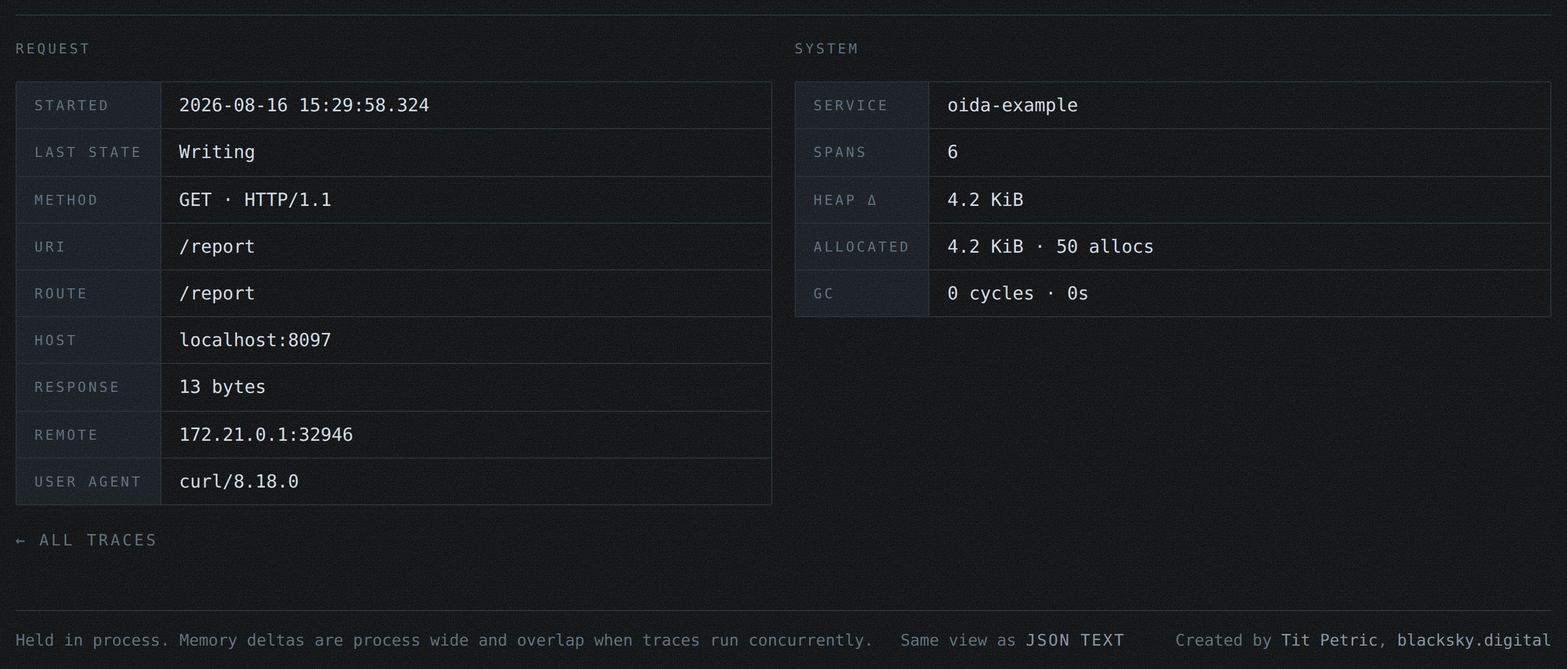
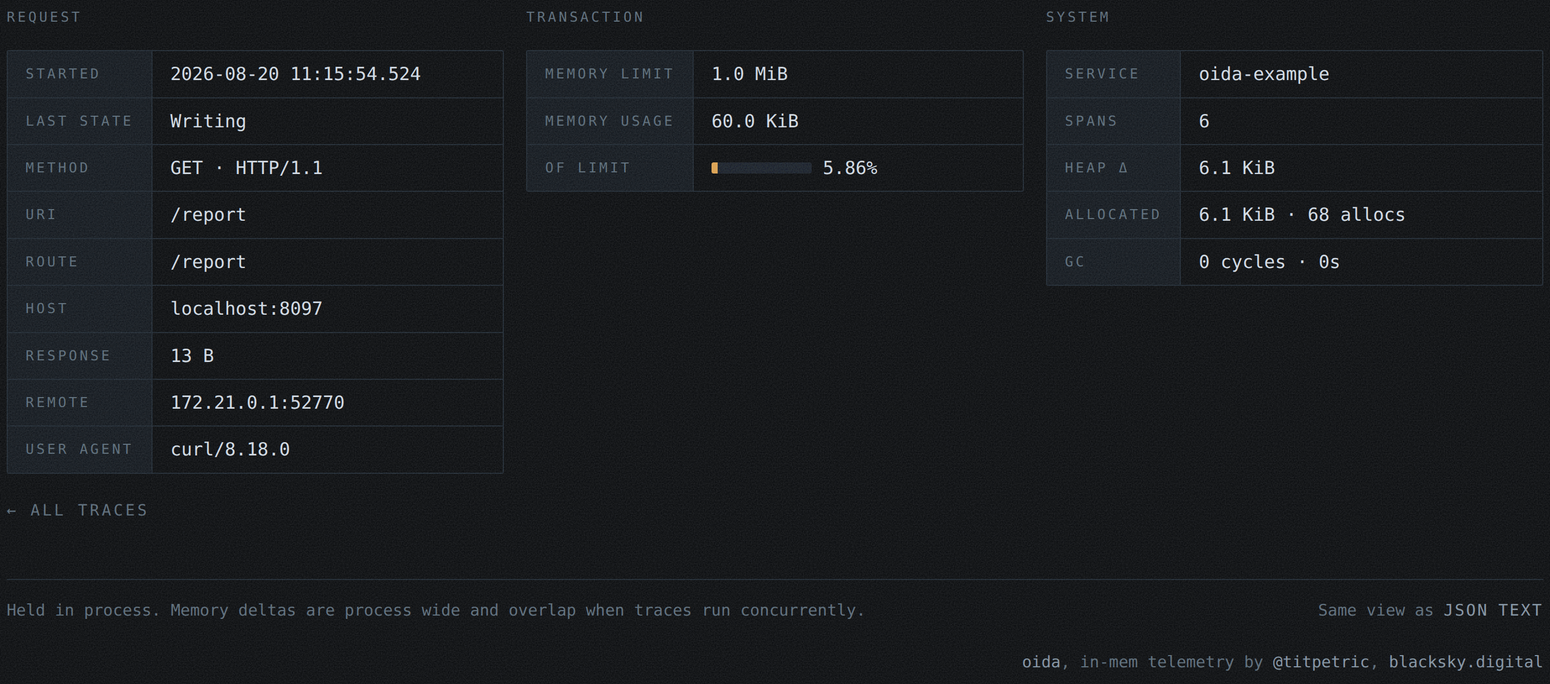
docs: document trace attributes and the memory columns

diff --git a/docs/guide-instrumentation.md b/docs/guide-instrumentation.md
@@ -204,22 +204,51 @@ Concurrent siblings overlap in the timeline; the segment sweep attributes each s
 span.SetSource("internal/billing/repo.go", 42)
 ```
 
-Optional. The span table shows `file:L42` when set. Do not compute it with `runtime.Caller` on hot paths — it is not free.
+Optional, and nothing in oida sets it for you: the file and line are whatever the caller passes, normally the repo-relative path and the line of the `Start` call. The span table gains a Source column showing `file:L42` when a trace has any, and omits the column when it has none. Do not compute it with `runtime.Caller` on hot paths — it is not free.
 
 ## 6. Trace-level operations
 
 ```go
 trace := oida.TraceFromContext(ctx)
 trace.SetState(oida.StateProcessing)
-trace.Fail(err)
+trace.RecordError(err)
 id := oida.TraceID(ctx) // the ULID, also in the Request-Id header
 ```
+
+`RecordError` and `Err` mean on a trace what they mean on a span, and a span records on both: an error recorded anywhere in a transaction is readable from the transaction. The value is what comes back, so `errors.Is` still works on it.
 
 Putting the trace ID into your logs is the cheapest possible correlation:
 
 ```go
 slog.ErrorContext(ctx, "charge failed", "err", err, "trace", oida.TraceID(ctx))
 ```
+
+A trace carries attributes of its own, for what holds for the whole transaction rather than for one operation inside it:
+
+```go
+trace.SetAttribute(oida.AttrMemoryLimit, limit)          // bytes, int64
+trace.SetAttributes(oida.Attributes{"tenant": tenantID}) // several at once
+```
+
+The detail view renders them as a table beside the request, keys read as labels, and byte-valued keys read as sizes.
+
+### 6.1 Memory
+
+Two keys are known to the front end:
+
+| Key            | On             | Meaning                                  |
+|----------------|----------------|------------------------------------------|
+| `memory_limit` | trace          | the ceiling the transaction ran under    |
+| `memory_usage` | trace and span | memory in use when it finished, in bytes |
+
+Recorded per span, `memory_usage` is the memory curve of the request: the span table draws each reading against the largest one in the trace, and the span where the curve steps is the span that allocated.
+
+```go
+span.SetAttribute(oida.AttrMemoryUsage, runtimeUsage())
+span.End()
+```
+
+This is worth recording when the runtime can charge allocations to one request, which an interpreter can and Go cannot: in Go the heap belongs to the process, and what oida can say about it is in `Trace.Memory` instead. Both keys are optional and independent — a runtime that knows the usage but not the limit records the usage.
 
 ## 7. What not to instrument
 

diff --git a/docs/screenshots.md b/docs/screenshots.md
@@ -36,12 +36,12 @@ The shape of a single wave is not data. Its extent, its colour and how loud it r
 
 ## One trace: the spans
 
-Under the drawing sits a bar carrying the legend and a count, and behind the count a switch. Shut, which is how it opens, the bar is the answer: where the time went, by kind. Thrown, it folds out every span the trace recorded, in tree order: kind, offset from the start of the request, duration, a bar against the shared time axis, the source location that opened it, and the name. Attributes fold out per span, and a recorded error is printed where it happened. The choice is remembered for the whole front end, so a reader who wants the spans shut has them shut on every trace they open.
+Under the drawing sits a bar carrying the legend and a count, and behind the count a switch. Shut, which is how it opens, the bar is the answer: where the time went, by kind. Thrown, it folds out every span the trace recorded, in tree order: kind, offset from the start of the request, duration, a bar against the shared time axis, and the name. Two columns appear when the trace has them, and are not drawn when it does not: the memory in use when each span finished, drawn against the largest reading of the trace, and the source location that opened the span. The demo above reports memory on most of its spans and not on `shard 0`, so the column has a gap and the reading below it steps by two spans' worth. Attributes fold out per span, and a recorded error is printed where it happened. The choice is remembered for the whole front end, so a reader who wants the spans shut has them shut on every trace they open.
 
-![The legend bar and the span table folded out from behind it](assets/detail-spans.png)
+![The legend bar and the span table folded out from behind it, one row per span with its memory reading](assets/detail-spans.png)
 
 ## One trace: the request
 
-Two tables side by side: what was asked for on the left, what it cost this process on the right. Labels down the left of each, values down the right, one row per property.
+Tables side by side: the request details on the left, the request cost on the right. Labels down the left of each, values down the right, one row per property. Between them sits what the transaction recorded about itself, here the memory limit it ran under and what it used of it. A trace that recorded no attributes of its own shows the two tables and no gap where the third would be.
 
-![The request and system fact tables, and the page footer](assets/detail-footer.png)
+![The request, transaction and system fact tables, and the page footer](assets/detail-footer.png)

diff --git a/docs/spec-model.md b/docs/spec-model.md
@@ -55,8 +55,9 @@ type Trace struct {
 	Error     string        `json:"error,omitempty"`
 	InFlight  bool          `json:"in_flight,omitempty"`
 
-	HTTP   *HTTPInfo `json:"http,omitempty"`
-	Memory MemoryUse `json:"memory"`
+	HTTP       *HTTPInfo  `json:"http,omitempty"`
+	Memory     MemoryUse  `json:"memory"`
+	Attributes Attributes `json:"attributes,omitempty"`
 
 	Spans        []*Span `json:"spans,omitempty"`
 	DroppedSpans int     `json:"dropped_spans,omitempty"`
@@ -64,6 +65,23 @@ type Trace struct {
 ```
 
 For HTTP traces, `Name` is the method and routed pattern when available, such as `GET /users/{id}`. Background traces use the name passed to `StartTrace` or `Observe`. `InFlight` is true when the trace was still running when read.
+
+### Attributes
+
+`Attributes` is a `map[string]any`, recorded on a trace with `Trace.SetAttribute` and on a span with `Span.SetAttribute`. What holds for the whole transaction belongs on the trace, what holds for one operation belongs on the span that measured it.
+
+The set of keys is open. These are the keys the front end understands, and renders as sizes rather than as bare integers:
+
+```go
+const (
+	AttrMemoryLimit = "memory_limit" // bytes, on the trace
+	AttrMemoryUsage = "memory_usage" // bytes, on the trace and on its spans
+)
+```
+
+`memory_limit` is the ceiling the transaction ran under. `memory_usage` is the memory in use when a span or a trace finished, so the readings across the spans of a trace are the memory curve of the request, and the span where the curve steps is the span that allocated. A runtime that charges allocations to the request, such as an interpreter, reports both; the Go runtime reports neither, because there the heap belongs to the process. `MemoryUse` covers what Go can say.
+
+`Attributes.Int64(key)` reads a numeric value as an integer whatever type it arrived as, so a number that came back through JSON as a float, or over a wire as a decimal string, still reads as one. It reports false for a missing key and for a value that is not a number. `IsBytes(key)` reports whether a key holds a size in bytes.
 
 ### HTTP fields
 

diff --git a/docs/spec-api.md b/docs/spec-api.md
@@ -121,7 +121,7 @@ func (s *Span) SetAttribute(key string, value any)
 func (s *Span) SetAttributes(attributes Attributes)
 func (s *Span) SetName(name string)
 func (s *Span) SetSource(filename string, line int)
-func (s *Span) Failed() bool
+func (s *Span) Err() error
 func (s *Span) Ended() bool
 func (s *Span) Elapsed() time.Duration
 func (s *Span) Context(ctx context.Context) context.Context
@@ -129,6 +129,34 @@ func (s *Span) Trace() *Trace
 ```
 
 `End` is idempotent. `RecordError` marks both the span and trace as failed.
+
+### Trace methods
+
+The trace API matches the span API where the two mean the same thing:
+
+```go
+func (t *Trace) RecordError(err error)
+func (t *Trace) Err() error
+func (t *Trace) SetAttribute(key string, value any)
+func (t *Trace) SetAttributes(attributes Attributes)
+func (t *Trace) Attribute(key string) (any, bool)
+func (t *Trace) SetName(name string)
+func (t *Trace) SetState(state State)
+func (t *Trace) SpanCount() int
+func (t *Trace) Elapsed() time.Duration
+```
+
+`RecordError` records the error and moves the trace to `StateError`; a nil error is ignored. `Err` returns the error that was recorded, the value itself, so `errors.Is` and `errors.As` work on it:
+
+```go
+if err := trace.Err(); errors.Is(err, context.Canceled) {
+	// the caller went away before the work finished
+}
+```
+
+`Span.RecordError` records on the span and then on its trace, so an error recorded anywhere in a transaction is readable from both. A trace or span decoded from JSON kept the message and not the value, and reports an error carrying that message.
+
+Trace attributes are for what holds for the whole transaction, such as the memory limit it ran under. What holds for one operation belongs on the span that measured it. See [the data model](spec-model.md#attributes) for the keys the front end knows.
 
 ## Background work
 

diff --git a/docs/spec-frontend.md b/docs/spec-frontend.md
@@ -49,12 +49,15 @@ A trace detail page shows:
 - Trace ID, name, status, duration, service, and start time
 - The timing and overlap of recorded spans
 - Time grouped by span kind
-- The span tree with names, offsets, durations, source locations, and errors
+- The span tree with names, offsets, durations, and errors, plus source locations when `Span.SetSource` recorded them
 - Span attributes, including statements recorded as `query`, `sql`, `statement`, or `cql`
+- Transaction attributes recorded on the trace, keys read as labels and byte-valued keys read as sizes
 - HTTP request and response details when the trace came from a request
 - Heap delta, allocated bytes, allocations, GC cycles, and GC pause
 
-Memory values are process-wide observations. Concurrent traces can overlap, so use them to identify trends rather than as isolated accounting.
+Memory values under System are process-wide observations. Concurrent traces can overlap, so use them to identify trends rather than as isolated accounting.
+
+A trace that recorded `memory_limit` shows it under Transaction, and shows what it used of it as a share once it also recorded `memory_usage`. When its spans recorded `memory_usage`, the span table gains a memory column, each reading drawn against the largest one in the trace. The column is the memory curve of the request, and the row where the curve steps is the span that allocated. How close the request came to its limit is one number, and it is in the Transaction table rather than in every row. Both attributes are optional, and a Go service records neither by default; see [the instrumentation guide](guide-instrumentation.md).
 
 ## Statistics
 
